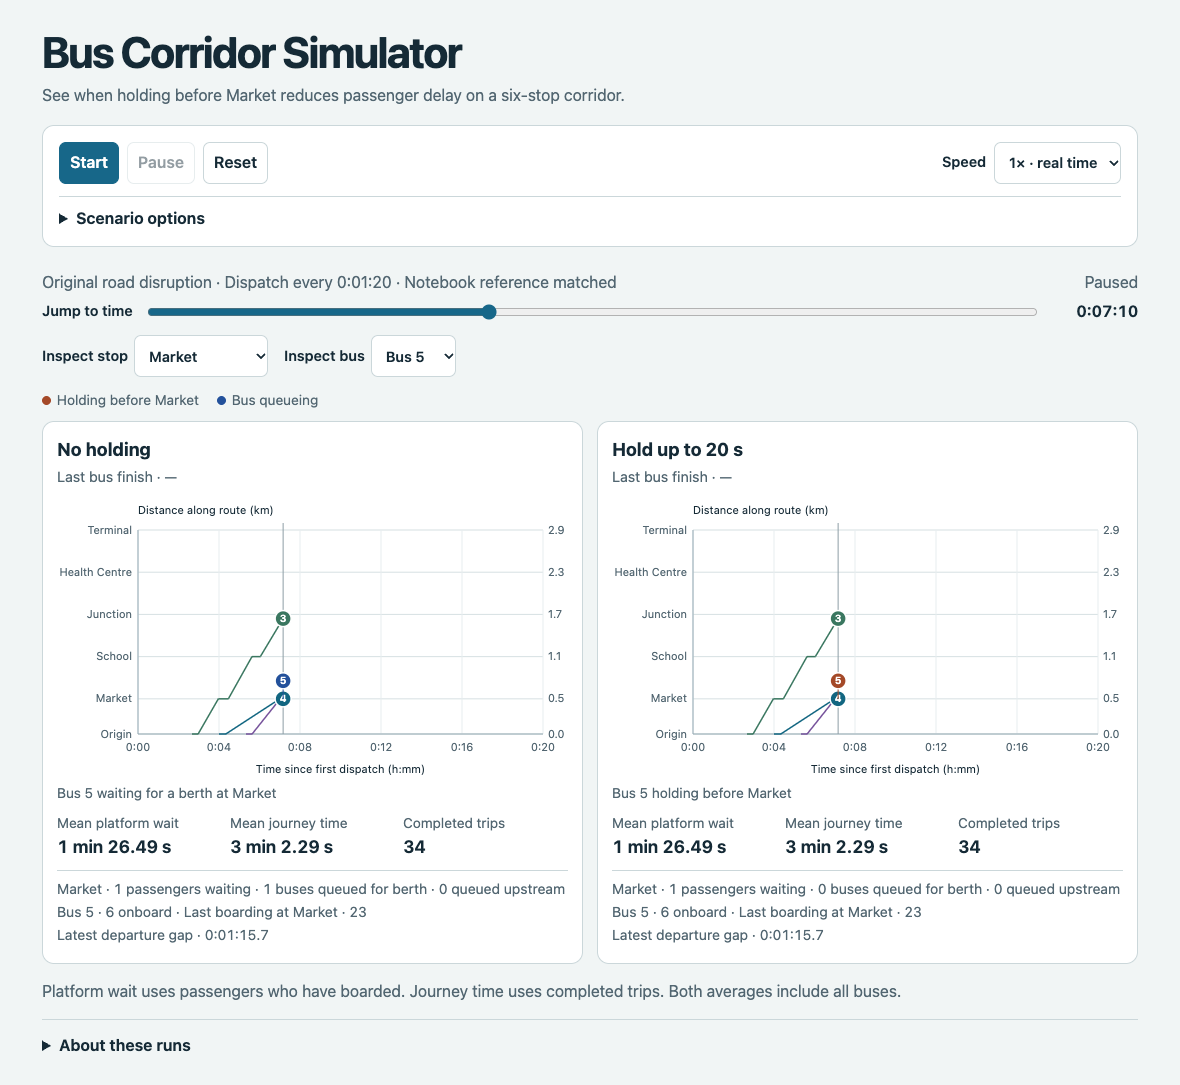
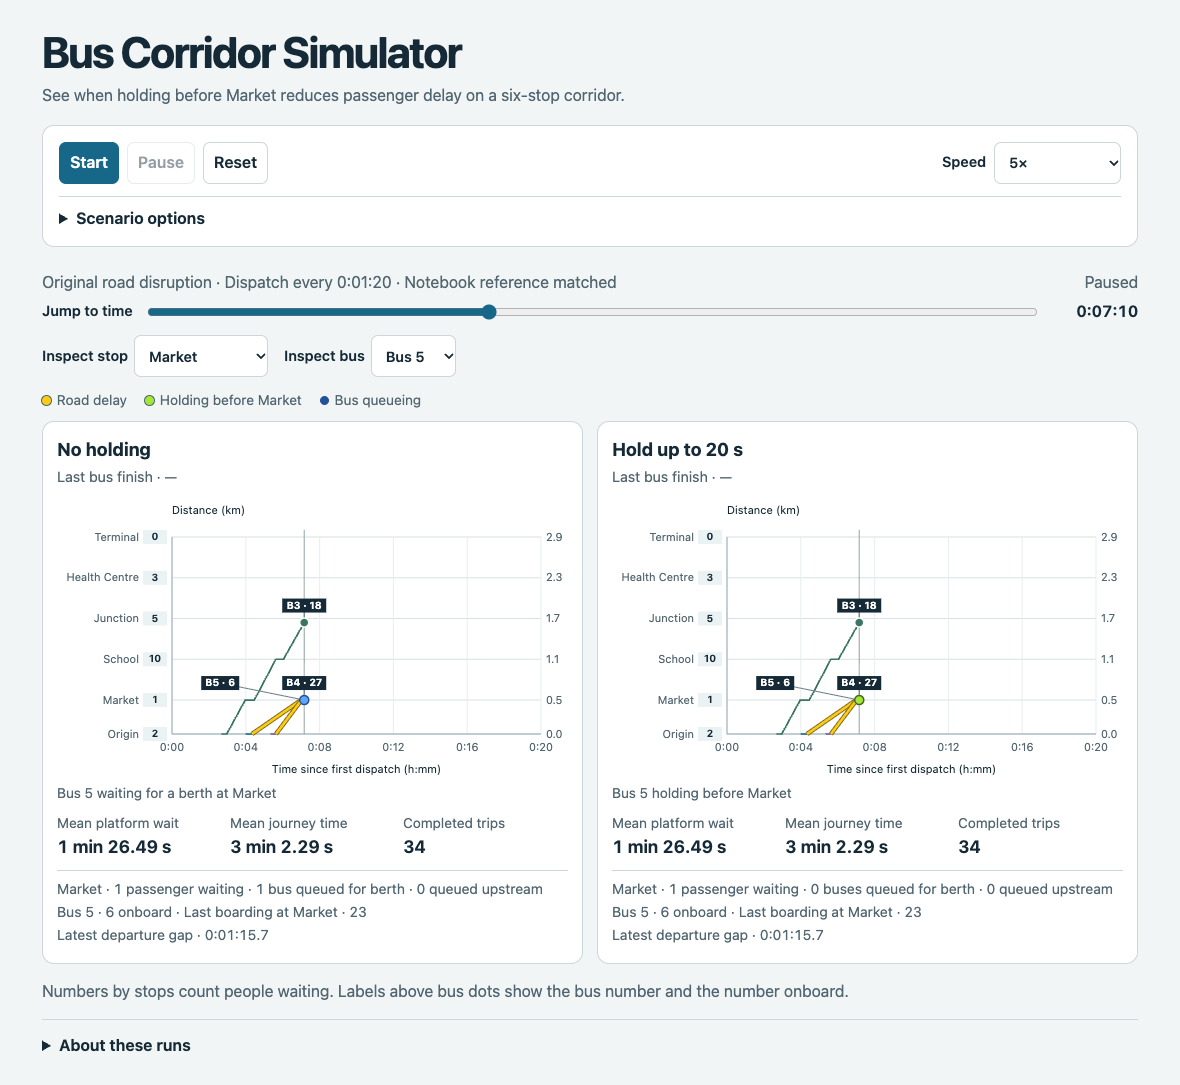
docs(demo): explain the timeline colours and counts

diff --git a/USER_GUIDE.md b/USER_GUIDE.md
@@ -4,13 +4,17 @@ Open [the live demo](https://amri0faz31.github.io/bus-corridor-simulator/) or op
 
 ## Compare no holding and capped holding
 
-The default preview uses the published link means, sampled traffic variability and a **1 min 40 s** initial dispatch gap. The longer gap separates early bus departures visually. Both panels share it, and the holding rule still targets a **1 min 20 s** release gap before Market. The notebook experiment and both reference replays retain **1 min 20 s** dispatches.
+The default preview uses the published link means, sampled traffic variability and a **2 min** initial dispatch gap. The longer gap separates early bus departures visually. Both panels share it, and the holding rule still targets a **1 min 20 s** release gap before Market. The notebook experiment and both reference replays retain **1 min 20 s** dispatches.
 
-Choose **Inspect stop** and **Inspect bus**. Each panel shows platform passengers waiting, the berth queue, and the number onboard the selected bus. At Market it also shows buses queued at the control point. The latest departure gap measures the time between the last two departures at the selected stop. The chart shows buses 3–5 initially. If bus markers cluster, leader lines connect offset labels to their actual positions.
+Choose **Inspect stop** and **Inspect bus**. Each panel shows platform passengers waiting, the berth queue, and the number onboard the selected bus. At Market it also shows buses queued at the control point. The latest departure gap measures the time between the last two departures at the selected stop. The chart shows buses 3–5 initially. The number beside each stop is its current passenger queue. A label such as B5 · 6 shows Bus 5 carrying six passengers. The dot stays on the trail, and a leader line connects its label when nearby buses need more room. Finished buses leave their trails on the chart.
 
 Platform wait is the mean wait of passengers who have boarded by the current time. Journey time uses completed passengers. Both averages include every bus. Counts change at event times, and boarding and alighting happen at the start of service in the model.
 
 ![Baseline and capped holding with live passenger counts in the wider-gap preview](figures/demo-holding-preview.png)
+
+## Read the time–distance chart
+
+A rising trail is a bus travelling between stops. A flat trail is a bus spending time at a stop or on its approach. The vertical line shows the current simulation time. Yellow highlights the road leg affected by the injected disruption or the no-passing rule. Light green marks deliberate holding before Market, and blue marks queueing. Bus positions between stops are interpolated from the simulated departure and arrival times.
 
 ## Reference replays
 
@@ -25,5 +29,5 @@ The browser checks the two references against Python for completed trips, mean p
 ## Reproduce the results
 
 - Run the [notebook](notebook/bus-corridor-simulator.ipynb) to regenerate the CSVs, reference values and figures.
-- Run `node tests/check-demo.cjs` to verify the notebook replays, passenger and queue counts, and both dispatch-gap settings.
+- Run `node tests/check-demo.cjs` to verify the notebook replays, passenger and queue counts, and all three dispatch-gap settings.
 - Run `python tests/check-results.py` to execute the full notebook in a temporary directory and compare its numeric exports.

diff --git a/README.md b/README.md
@@ -20,7 +20,7 @@ When buses arrive close together, they can queue for the same boarding space. Bu
 
 ## User guide
 
-Use **Start**, **Pause** and **Reset** on the shared clock. Change demand, travel-time variability or the cap, and inspect a bus or stop to see its live passenger counts. The default preview runs buses every 1 min 40 s. The reference replays and notebook use 1 min 20 s. Choose **Original road disruption** under **Scenario options** and jump to **0:07:10** to see Bus 5’s wait move upstream with holding. [Full user guide](USER_GUIDE.md)
+Use **Start**, **Pause** and **Reset** on the shared clock. Change demand, travel-time variability or the cap, and inspect a bus or stop to see its live passenger counts. The default preview runs buses every 2 min. The reference replays and notebook use 1 min 20 s. Choose **Original road disruption** under **Scenario options** and jump to **0:07:10** to see Bus 5’s wait move upstream with holding. [Full user guide](USER_GUIDE.md)
 
 ## Model and mathematics
 
